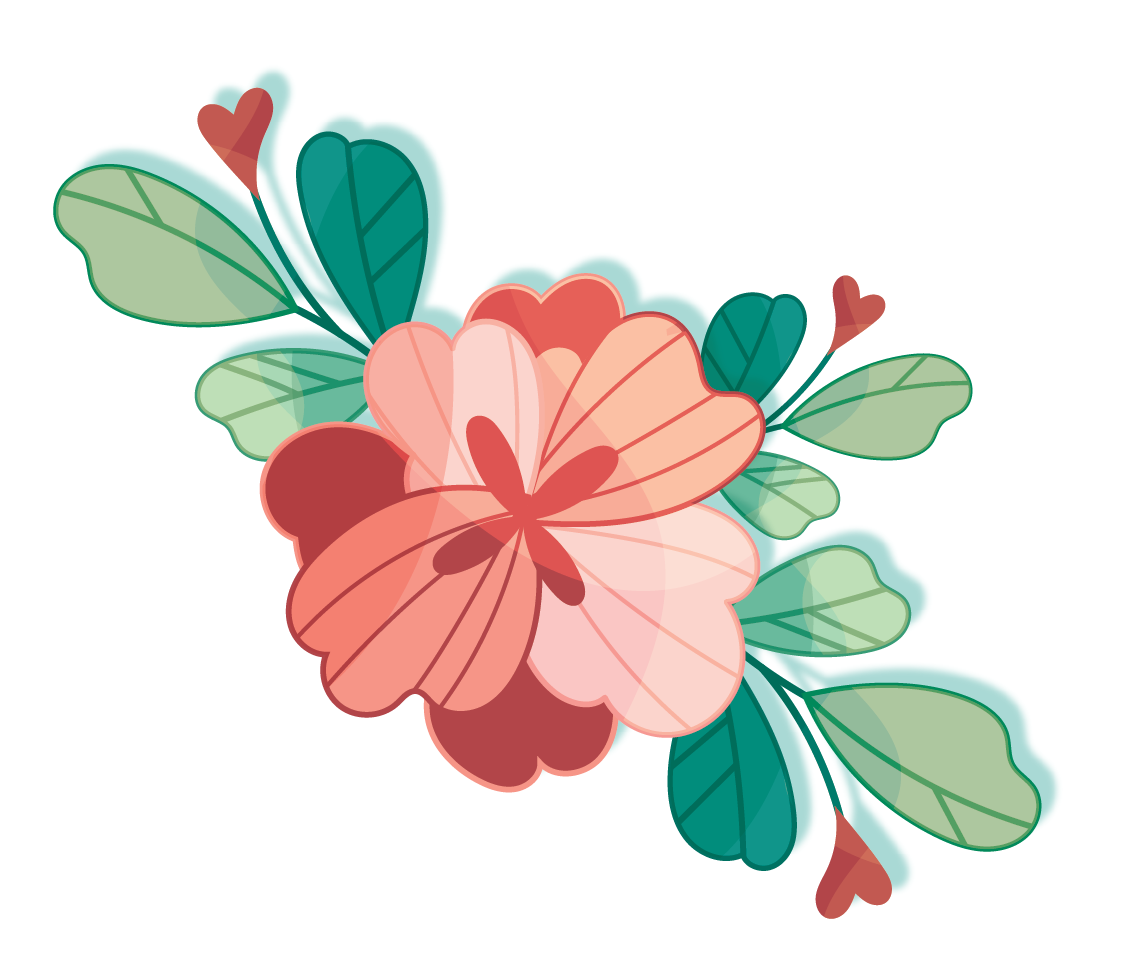
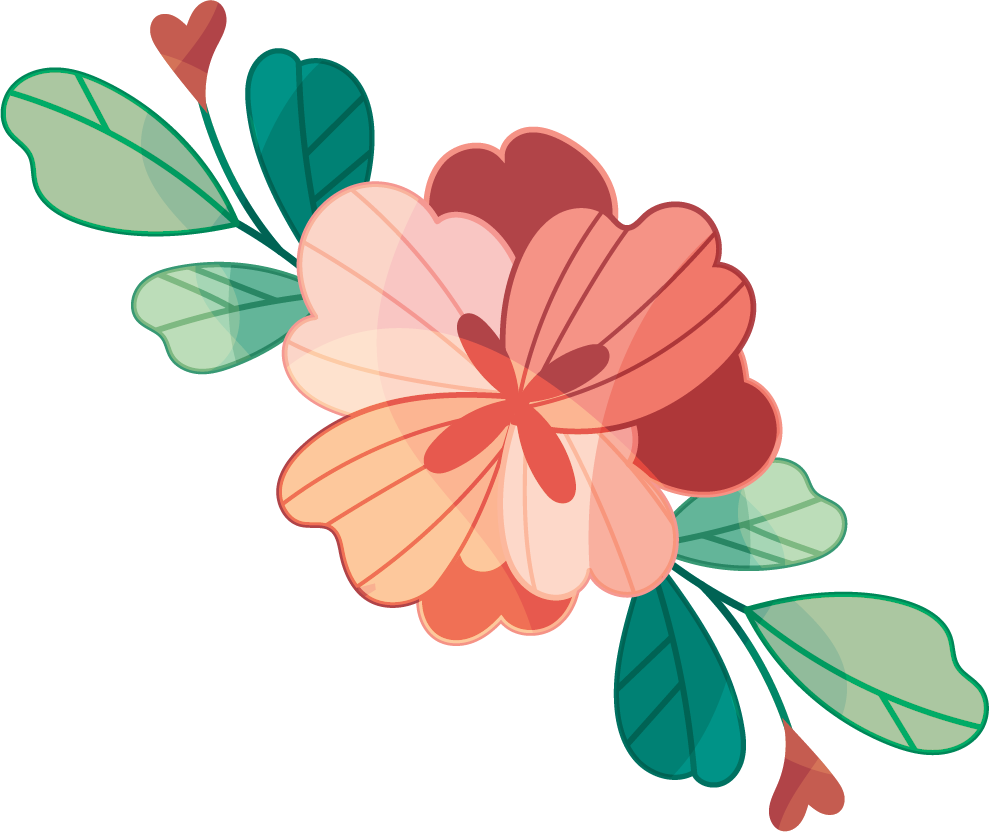
added front-page

diff --git a/src/scss/style.scss b/src/scss/style.scss
@@ -21,7 +21,7 @@ body {
   align-items: center;
   position: relative;
   background-color: $background-color;
-  overflow: hidden;
+  // overflow: hidden;
   box-shadow: 0px 2px 10px rgba(0, 0, 0, 0.5);
 
   &::before {
@@ -46,97 +46,182 @@ body {
     z-index: 2;
   }
 
-  .leaf-top {
-    content: "";
-    display: block;
+  .leaves {
     position: absolute;
-    top: -2rem;
-    left: -1rem;
-    height: 30%;
-    width: 400px;
-    background-image: url("/assets/images/leaf-top.png");
-    background-size: cover;
-    background-repeat: no-repeat;
-    background-position: bottom center;
-    filter: grayscale(1) brightness(0) opacity(0.25);
-    animation: sway 4s infinite 0.5s;
-    transform-origin: 0 100% 50%;
+    top: 0;
+    left: 0;
+    height: 100%;
+    width: 100%;
+    overflow: hidden;
+
+    .leaf-top {
+      content: "";
+      display: block;
+      position: absolute;
+      top: -2rem;
+      left: -1rem;
+      height: 30%;
+      width: 400px;
+      background-image: url("/assets/images/leaf-top.png");
+      background-size: cover;
+      background-repeat: no-repeat;
+      background-position: bottom center;
+      filter: grayscale(1) brightness(0) opacity(0.25);
+      animation: sway 4s infinite 0.5s;
+      transform-origin: 0 100% 50%;
+    }
+
+    .leaf-bottom {
+      content: "";
+      display: block;
+      position: absolute;
+      bottom: -2rem;
+      right: -1rem;
+      height: 30%;
+      width: 400px;
+      background-image: url("/assets/images/leaf-bottom.png");
+      background-size: cover;
+      background-repeat: no-repeat;
+      background-position: top center;
+      filter: grayscale(1) brightness(0) opacity(0.25);
+      animation: sway 4s infinite 1s;
+      transform-origin: 50% 100% 0;
+    }
   }
 
-  .leaf-bottom {
-    content: "";
-    display: block;
-    position: absolute;
-    bottom: -2rem;
-    right: -1rem;
-    height: 30%;
-    width: 400px;
-    background-image: url("/assets/images/leaf-bottom.png");
-    background-size: cover;
-    background-repeat: no-repeat;
-    background-position: top center;
-    filter: grayscale(1) brightness(0) opacity(0.25);
-    animation: sway 4s infinite 1s;
-    transform-origin: 50% 100% 0;
+  .flowers {
+    .flower-top {
+      z-index: 5;
+      display: block;
+      position: absolute;
+      top: -125px;
+      right: -125px;
+      height: 400px;
+      width: auto;
+      background-image: url("/assets/images/flower-top.png");
+      background-size: contain;
+      background-repeat: no-repeat;
+      background-position: center;
+      filter: drop-shadow(rgba(0,0,0,0.5) 0.5rem 0.5rem 1rem);
+    }
+  
+    .flower-bottom {
+      z-index: 5;
+      display: block;
+      position: absolute;
+      bottom: -125px;
+      left: -125px;
+      height: 400px;
+      width: auto;
+      background-image: url("/assets/images/flower-bottom.png");
+      background-size: contain;
+      background-repeat: no-repeat;
+      background-position: center;
+      filter: drop-shadow(rgba(0,0,0,0.5) 0.5rem 0.5rem 1rem);
+    }
   }
 
-  .flower-top {
-    z-index: 5;
-    display: block;
-    position: absolute;
-    top: -100px;
-    right: -100px;
-    height: 400px;
-    width: auto;
-    background-image: url("/assets/images/flower-top.png");
-    background-size: contain;
-    background-repeat: no-repeat;
-    background-position: center;
-  }
-
-  .flower-bottom {
-    z-index: 5;
-    display: block;
-    position: absolute;
-    bottom: -100px;
-    left: -100px;
-    height: 400px;
-    width: auto;
-    background-image: url("/assets/images/flower-bottom.png");
-    background-size: contain;
-    background-repeat: no-repeat;
-    background-position: center;
-  }
 }
 
 .card + .card {
-  margin-top: 2rem;
+  margin-top: 4rem;
 }
 
-.hero-names {
+.text {
   position: relative;
-  font-family: $cursive-font;
-  font-size: 8rem;
-  color: $accent-color;
-  width: 400px;
-  height: 300px;
+  z-index: 5;
+   .wedding {
+     font-size: 2rem;
+     color: $accent-color;
+     margin-bottom: 1rem;
+     text-align: center;
+     text-transform: uppercase;
+   }
 
-  .groom {
-    position: absolute;
-    left: -2rem;
-    top: 0rem;
+  .names {
+    position: relative;
+    font-family: $cursive-font;
+    font-size: 8rem;
+    color: $font-color;
+    width: 400px;
+    height: 300px;
+  
+    .groom {
+      position: absolute;
+      left: -2rem;
+      top: 0rem;
+    }
+  
+    .and {
+      position: absolute;
+      right: 4rem;
+      top: 6rem;
+      font-size: 6rem;
+    }
+  
+    .bride {
+      position: absolute;
+      top: 10rem;
+      left: 5rem;
+    }
   }
 
-  .and {
-    position: absolute;
-    right: 4rem;
-    top: 6rem;
-    font-size: 6rem;
+  .save-the-date {
+    font-size: 1.8rem;
+    color: $accent-color;
+    margin-bottom: 1rem;
+    text-align: center;
+    margin-top: 2rem;
+    margin-bottom: 2rem;
+
+    .save {
+      margin-bottom: 1rem;
+      text-transform: uppercase;
+    }
+
+    .date {
+      display: flex;
+      justify-content: center;
+      align-items: center;
+      margin-bottom: 1rem;
+      font-size: 3rem;
+      color: $accent-color;
+      gap: 1rem;
+
+      .day {
+        position: relative;
+        padding: 0 2rem;
+
+        &::after {
+          position: absolute;
+          content: '';
+          display: block;
+          height: 100%;
+          width: 5px;
+          top: 0;
+          left: 0;
+          border-radius: 5px;
+          background-color: $accent-color;
+        }
+
+        &::before {
+          position: absolute;
+          content: '';
+          display: block;
+          height: 100%;
+          width: 5px;
+          top: 0;
+          right: 0;
+          border-radius: 5px;
+          background-color: $accent-color;
+        }
+      }
+    }
   }
 
-  .bride {
-    position: absolute;
-    top: 10rem;
-    left: 5rem;
+  .venue {
+    text-align: center;
+    font-size: 1.4rem;
   }
 }
+

diff --git a/src/views/index.html b/src/views/index.html
@@ -10,21 +10,38 @@
     <link rel="preconnect" href="https://fonts.gstatic.com" crossorigin>
     <link href="https://fonts.googleapis.com/css2?family=Comfortaa:wght@300..700&family=Great+Vibes&display=swap"
         rel="stylesheet">
+    <link rel="shortcut icon" href="/assets/images/favicon/favicon.ico" type="image/x-icon">
 </head>
 
 <body>
     <div class="container">
 
         <div class="card">
-            <div class="leaf-top"></div>
-            <!-- <div class="flower-top"></div> -->
-            <div class="hero-names">
-                <div class="groom">Jobith</div>
-                <div class="and">&</div>
-                <div class="bride">Banu</div>
+            <div class="leaves">
+                <div class="leaf-top"></div>
+                <div class="leaf-bottom"></div>
             </div>
-            <!-- <div class="flower-bottom"></div> -->
-            <div class="leaf-bottom"></div>
+
+            <div class="text">
+                <div class="wedding">The Wedding Of</div>
+                <div class="names">
+                    <div class="groom">Jobith</div>
+                    <div class="and">&</div>
+                    <div class="bride">Banu</div>
+                </div>
+                <div class="save-the-date">
+                    <div class="save">Save The Date</div>
+                    <div class="date">
+                        <div class="month">Nov</div>
+                        <div class="day">11</div>
+                        <div class="year">2024</div>
+                    </div>
+                </div>
+                <div class="venue">
+                    Mascot Beach Resort, <br>Payyambalam, Kannur, Kerala
+                </div>
+            </div>
+            
             <div class="butterflies">
                 <div class="butterfly one">
                     <div class="butterfly-turn">
@@ -43,17 +60,21 @@
                 </div>
             </div>
 
-            <div class="butterfly one">
-                <div class="butterfly-turn">
-                    <div class="butterfly-flutter"></div>
-                </div>
+            <div class="flowers">
+                <img src="/assets/images/flower-top.png" alt="" class="flower-top">
+                <img src="/assets/images/flower-bottom.png" alt="" class="flower-bottom">
             </div>
-            <img src="/assets/images/flower-top.png" alt="" class="flower-top">
-            <img src="/assets/images/flower-bottom.png" alt="" class="flower-bottom">
         </div>
         <div class="card">
-            <div class="leaf-top"></div>
-            <div class="leaf-bottom"></div>
+            <div class="leaves">
+                <div class="leaf-top"></div>
+                <div class="leaf-bottom"></div>
+            </div>
+
+            <div class="flowers">
+                <img src="/assets/images/flower-top.png" alt="" class="flower-top">
+                <img src="/assets/images/flower-bottom.png" alt="" class="flower-bottom">
+            </div>
         </div>
     </div>
 

diff --git a/gulpfile.js b/gulpfile.js
@@ -27,6 +27,10 @@ function html() {
     return src("./src/views/*.html").pipe(dest("./dist"));
 }
 
+function static() {
+    return src("./src/*").pipe(dest("./dist"));
+}
+
 function images() {
     return src("./src/images/**/*.*", {encoding: false}).pipe(dest("./dist/assets/images"));
 }
@@ -51,7 +55,7 @@ function serve () {
     watch("./src/views/**/*.html", html).on('change', browserSync.reload);
 }
 
-task('default', series(scss, js, html, images, serve));
+task('default', series(scss, js, html, static, images, serve));
 
-task('build', series( clear, scss, js, html, images));
+task('build', series( clear, scss, js, html, static, images));
 

diff --git a/src/scss/_butterfly.scss b/src/scss/_butterfly.scss
@@ -15,6 +15,7 @@
   animation-fill-mode: backwards;
   animation: fly 4s infinite linear;
   animation-delay: 0.125s;
+  z-index: 99;
 
   // stagger flight
   &:nth-child(2),
